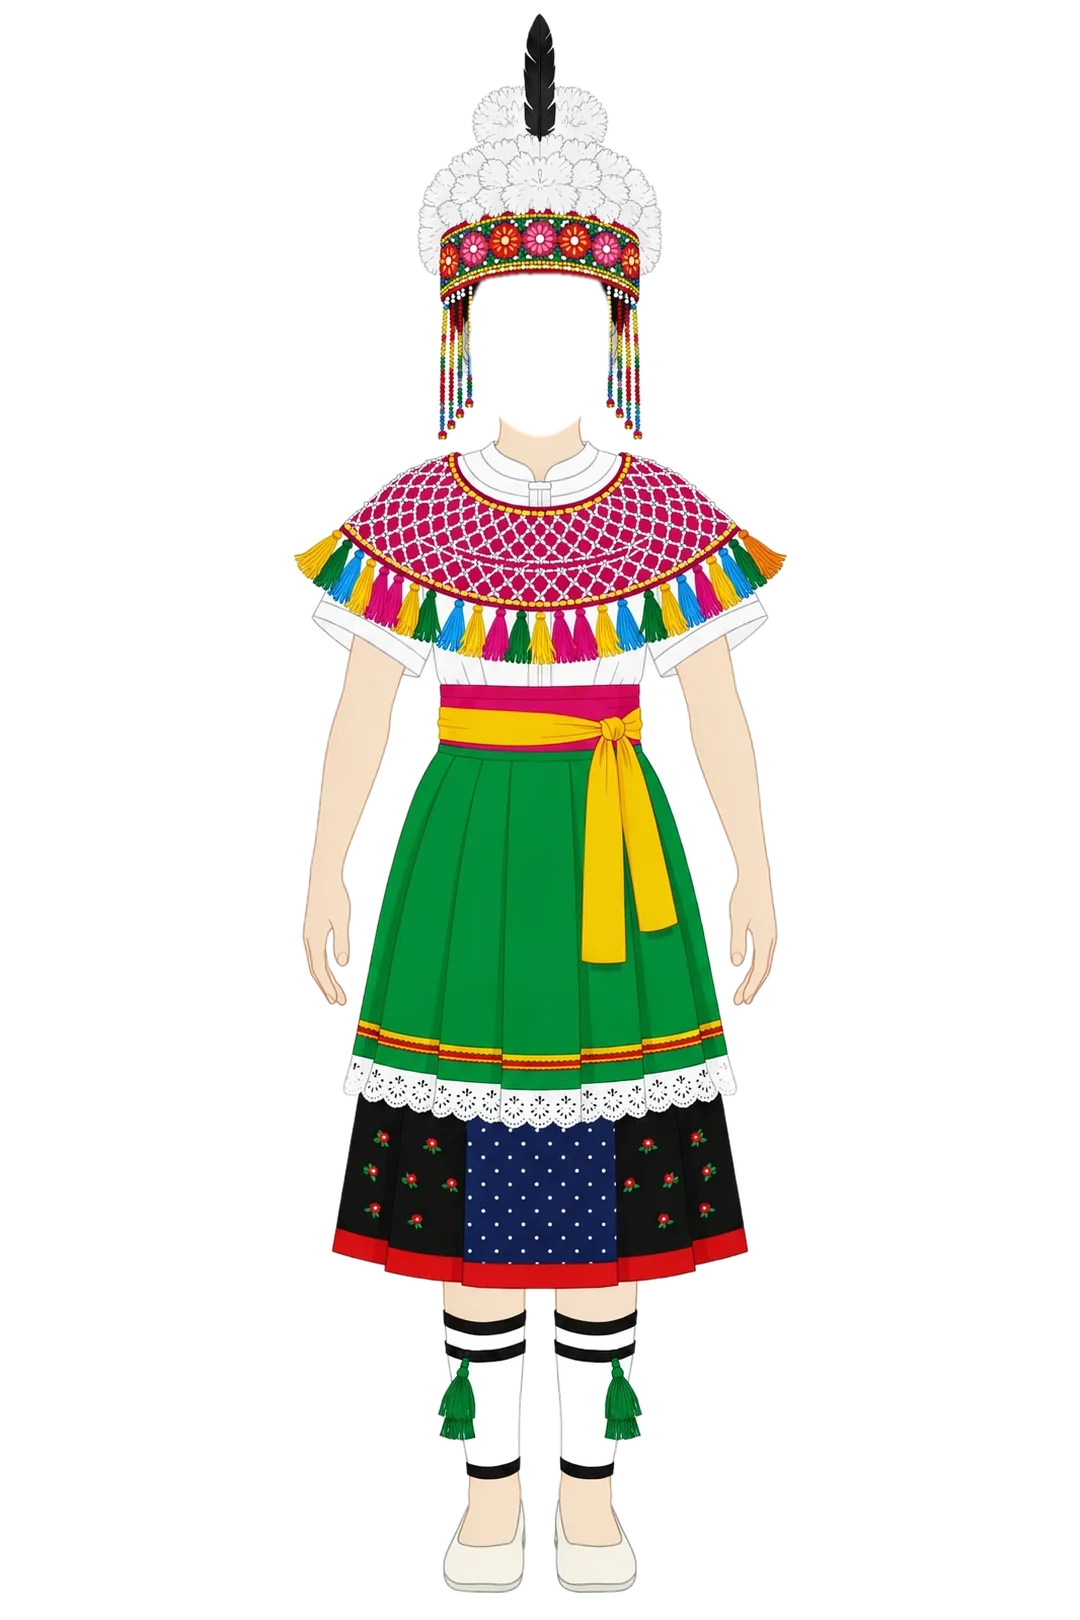
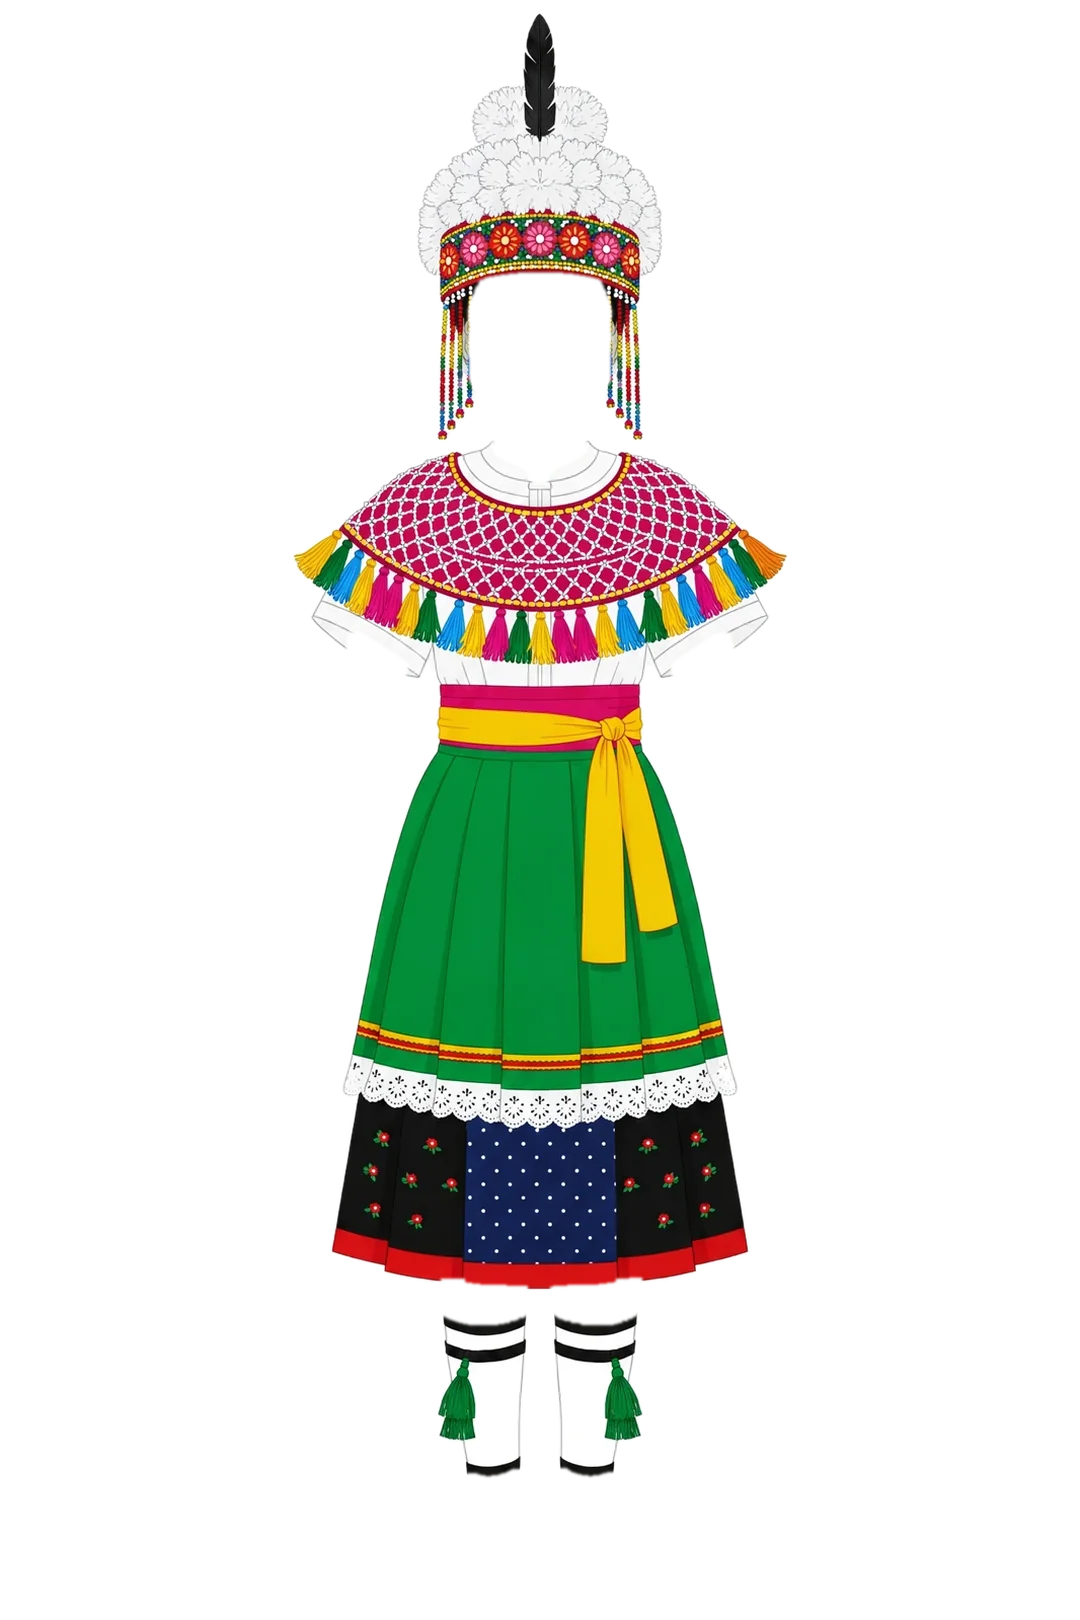
Show costume only when a person is detected; show real arms and legs
- Costume layer stays hidden until a face is detected and fades out when
  the face is lost; the shutter is disabled while hidden. Costumes without
  a face anchor or devices without the tracker keep the manual panel.
- Costume 1 layer: remove the mannequin's skin (arms, hands, neck, legs)
  and shoes so the visitor's own limbs show. process_costume.py gains
  --skin (skin color key with speckle filtering and region growing),
  --remove and --cut-below.

Claude-Session: https://claude.ai/code/session_01K78XLTaEUbautpKjYFM37J

diff --git a/src/main.ts b/src/main.ts
@@ -27,6 +27,7 @@ const cameraStatus = $<HTMLParagraphElement>('#camera-status');
 const cameraHint = $<HTMLParagraphElement>('#camera-hint');
 const resultImage = $<HTMLImageElement>('#result-image');
 const shareBtn = $<HTMLButtonElement>('#btn-share');
+const shootBtn = $<HTMLButtonElement>('#btn-shoot');
 
 /** 顔を見失ってから「顔を映してください」を出すまでの時間 */
 const LOST_FACE_MS = 800;
@@ -53,6 +54,12 @@ function show(screen: Screen): void {
     cancelAnimationFrame(loopId);
   }
   window.scrollTo(0, 0);
+}
+
+/** 衣装を表示するか（顔を検出している間だけ表示する） */
+function setCostumeVisible(visible: boolean): void {
+  overlay.classList.toggle('hidden', !visible);
+  shootBtn.disabled = !visible;
 }
 
 function setHint(key: MsgKey): void {
@@ -126,11 +133,13 @@ function tick(): void {
   if (!selected || !video.videoWidth) return;
 
   if (!selected.face || !isTrackerReady()) {
-    // 顔はめパネル（手動）モード
+    // 顔検出が使えない端末・衣装は、顔はめパネル（手動）として常に表示する
     guide.style.display = '';
+    setCostumeVisible(true);
     setHint(selected.face ? 'manualMode' : 'alignHint');
     return;
   }
+  guide.style.display = 'none';
 
   const detected = detectFace(video);
   const now = performance.now();
@@ -143,9 +152,11 @@ function tick(): void {
       applyTransform(current);
     }
     lastFaceAt = now;
-    guide.style.display = 'none';
+    setCostumeVisible(true);
     setHint('alignHint');
   } else if (now - lastFaceAt > LOST_FACE_MS) {
+    // 人が映っていない間は衣装を消し、撮影もできないようにする
+    setCostumeVisible(false);
     setHint('faceSearching');
   }
 }
@@ -160,6 +171,9 @@ async function openCamera(costume: Costume): Promise<void> {
   current = defaultTransform(costume, facing);
   lastFaceAt = 0;
   applyTransform(current);
+  // 顔追従する衣装は、顔を検出するまで表示しない
+  guide.style.display = costume.face ? 'none' : '';
+  setCostumeVisible(!costume.face);
   setHint(costume.face ? 'preparing' : 'alignHint');
   try {
     await startCamera(video, facing);
@@ -192,7 +206,7 @@ document.addEventListener('visibilitychange', () => {
 });
 
 $('#btn-shoot').addEventListener('click', async () => {
-  if (!selected || !video.videoWidth) return;
+  if (!selected || !video.videoWidth || shootBtn.disabled) return;
   const costumeImg = await loadImage(selected.image);
   const canvas = composeFrame(video, costumeImg, { mirror: facing === 'user', transform: current });
   const blob = await canvasToBlob(canvas);

diff --git a/src/style.css b/src/style.css
@@ -109,7 +109,8 @@ h2 { font-size: 1.15rem; margin: 0; }
 .stage video { object-fit: cover; }
 .stage.mirror video { transform: scaleX(-1); /* 前面カメラは鏡のように表示 */ }
 /* 衣装レイヤー: JS で translate/scale を毎フレーム指定する */
-.stage img { pointer-events: none; transform-origin: 0 0; will-change: transform; }
+.stage img { pointer-events: none; transform-origin: 0 0; will-change: transform; transition: opacity 0.25s; }
+.stage img.hidden { opacity: 0; }
 .guide { pointer-events: none; }
 .guide ellipse { fill: none; stroke: rgba(255, 255, 255, 0.8); stroke-width: 4; stroke-dasharray: 14 10; }
 .status {
@@ -144,5 +145,6 @@ h2 { font-size: 1.15rem; margin: 0; }
   box-shadow: 0 0 0 4px rgba(255, 255, 255, 0.35);
 }
 .shutter:active { transform: scale(0.94); }
+.shutter:disabled { opacity: 0.4; }
 
 .result-image { width: 100%; aspect-ratio: 2 / 3; object-fit: contain; border-radius: 12px; background: #000; }

diff --git a/scripts/process_costume.py b/scripts/process_costume.py
@@ -5,7 +5,12 @@
 - 1080x1620 のキャンバスに中央配置して WebP（透過あり）で出力
 - 顔の穴の外接矩形を表示（costumes.json の anchor に転記する）
 
-使い方: python3 scripts/process_costume.py <入力画像> <出力.webp> <顔の内側の点x,y>
+- 肌の色（マネキンの腕・手・首・脚）を透過して、本人の腕や足が見えるようにする（--skin R,G,B）
+- 指定した点から塗りつぶした領域を透過する（--remove x,y;x,y）
+- 指定した高さより下を透過する（靴など。--cut-below Y、入力画像の座標）
+
+使い方:
+  python3 scripts/process_costume.py <入力画像> <出力.webp> <顔の内側の点x,y> [--skin R,G,B] [--remove x,y;x,y] [--cut-below Y]
 """
 import sys
 from PIL import Image, ImageDraw, ImageFilter, ImageChops
@@ -24,7 +29,27 @@ def flood_mask(rgb: Image.Image, seeds, thresh: int) -> Image.Image:
     return diff.point(lambda v: 255 if v == 0 else 0)
 
 
-def main(src: str, dst: str, face_xy: str) -> None:
+def skin_mask(rgb: Image.Image, color, tol=(14, 16, 18)) -> Image.Image:
+    """肌色に近い画素のマスク。輪郭線も消すため、閉じる処理（膨張→収縮）のあと少し広げる"""
+    r, g, b = rgb.split()
+    def band(ch, c, t):
+        return ch.point(lambda v: 255 if abs(v - c) <= t else 0)
+    m = ImageChops.multiply(ImageChops.multiply(band(r, color[0], tol[0]), band(g, color[1], tol[1])), band(b, color[2], tol[2]))
+    raw = m.filter(ImageFilter.MaxFilter(3)).filter(ImageFilter.MinFilter(3))
+    # 小さな点（衣装の中の肌に近い色）を消し、大きな肌の領域（腕・脚・首）だけを種にする
+    m = raw.filter(ImageFilter.MinFilter(9)).filter(ImageFilter.MaxFilter(9))
+    # 種から、つながっている肌色の画素へ広げる（指先など細い部分も拾う。形態学的再構成）
+    for _ in range(40):
+        grown = ImageChops.darker(m.filter(ImageFilter.MaxFilter(3)), raw)
+        if ImageChops.difference(grown, m).getbbox() is None:
+            break
+        m = grown
+    # 隙間を埋めてから、輪郭線の分だけ広げる
+    m = m.filter(ImageFilter.MaxFilter(5)).filter(ImageFilter.MinFilter(5))
+    return m.filter(ImageFilter.MaxFilter(9))
+
+
+def main(src: str, dst: str, face_xy: str, skin=None, remove=None, cut_below=None) -> None:
     rgb = Image.open(src).convert("RGB")
     w, h = rgb.size
     fx, fy = (int(v) for v in face_xy.split(","))
@@ -36,6 +61,15 @@ def main(src: str, dst: str, face_xy: str) -> None:
     face = face.filter(ImageFilter.MaxFilter(7))
 
     cut = ImageChops.lighter(bg, face)
+    if skin:
+        cut = ImageChops.lighter(cut, skin_mask(rgb, skin))
+    if remove:
+        extra = flood_mask(rgb, remove, thresh=12).filter(ImageFilter.MaxFilter(11))
+        cut = ImageChops.lighter(cut, extra)
+    if cut_below is not None:
+        below = Image.new("L", (w, h), 0)
+        ImageDraw.Draw(below).rectangle([0, cut_below, w, h], fill=255)
+        cut = ImageChops.lighter(cut, below)
     alpha = ImageChops.invert(cut).filter(ImageFilter.GaussianBlur(1.2))
     rgba = rgb.copy()
     rgba.putalpha(alpha)
@@ -56,4 +90,19 @@ def main(src: str, dst: str, face_xy: str) -> None:
 
 
 if __name__ == "__main__":
-    main(*sys.argv[1:4])
+    args = sys.argv[1:]
+    skin = remove = None
+    if "--skin" in args:
+        i = args.index("--skin")
+        skin = tuple(int(v) for v in args[i + 1].split(","))
+        del args[i:i + 2]
+    if "--remove" in args:
+        i = args.index("--remove")
+        remove = [tuple(int(v) for v in pt.split(",")) for pt in args[i + 1].split(";")]
+        del args[i:i + 2]
+    cut_below = None
+    if "--cut-below" in args:
+        i = args.index("--cut-below")
+        cut_below = int(args[i + 1])
+        del args[i:i + 2]
+    main(*args[:3], skin=skin, remove=remove, cut_below=cut_below)
